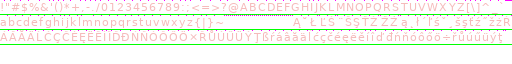
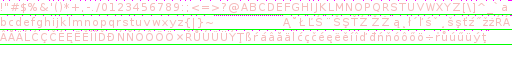
Fonts; add glyphs for the 'left and right pointing double angle quotation marks'.
Of the 3 ISO-8859 encodings that we currently used, those characters are only
available in ISO-8859-15 (western europe).
For the 2 others, they are automatically transliterated i(by libiconv) into
'<<' and '>>' when a message catalog is loaded.

diff --git a/tools/font/codeset.c b/tools/font/codeset.c
@@ -203,7 +203,7 @@ static struct codeset_element iso_8859_15[] = {
 		[168]= { 1, 0x0161, "LATIN_SMALL_LETTER_S_WITH_CARON" },
 		[169]= { 1, 0x00A9, "COPYRIGHT_SIGN" },
 		[170]= { 1, 0x00AA, "FEMININE_ORDINAL_INDICATOR" },
-		[171]= { 1, 0x00AB, "LEFT_POINTING_DOUBLE_ANGLE_QUOTATION_MARK" },
+		[171]= { 0, 0x00AB, "LEFT_POINTING_DOUBLE_ANGLE_QUOTATION_MARK" },
 		[172]= { 1, 0x00AC, "NOT_SIGN" },
 		[173]= { 1, 0x00AD, "SOFT_HYPHEN" },
 		[174]= { 1, 0x00AE, "REGISTERED_SIGN" },
@@ -219,7 +219,7 @@ static struct codeset_element iso_8859_15[] = {
 		[184]= { 1, 0x017E, "LATIN_SMALL_LETTER_Z_WITH_CARON" },
 		[185]= { 1, 0x00B9, "SUPERSCRIPT_ONE" },
 		[186]= { 1, 0x00BA, "MASCULINE_ORDINAL_INDICATOR" },
-		[187]= { 1, 0x00BB, "RIGHT_POINTING_DOUBLE_ANGLE_QUOTATION_MARK" },
+		[187]= { 0, 0x00BB, "RIGHT_POINTING_DOUBLE_ANGLE_QUOTATION_MARK" },
 		[188]= { 0, 0x0152, "LATIN_CAPITAL_LIGATURE_OE" },
 		[189]= { 0, 0x0153, "LATIN_SMALL_LIGATURE_OE" },
 		[190]= { 0, 0x0178, "LATIN_CAPITAL_LETTER_Y_WITH_DIAERESIS" },
